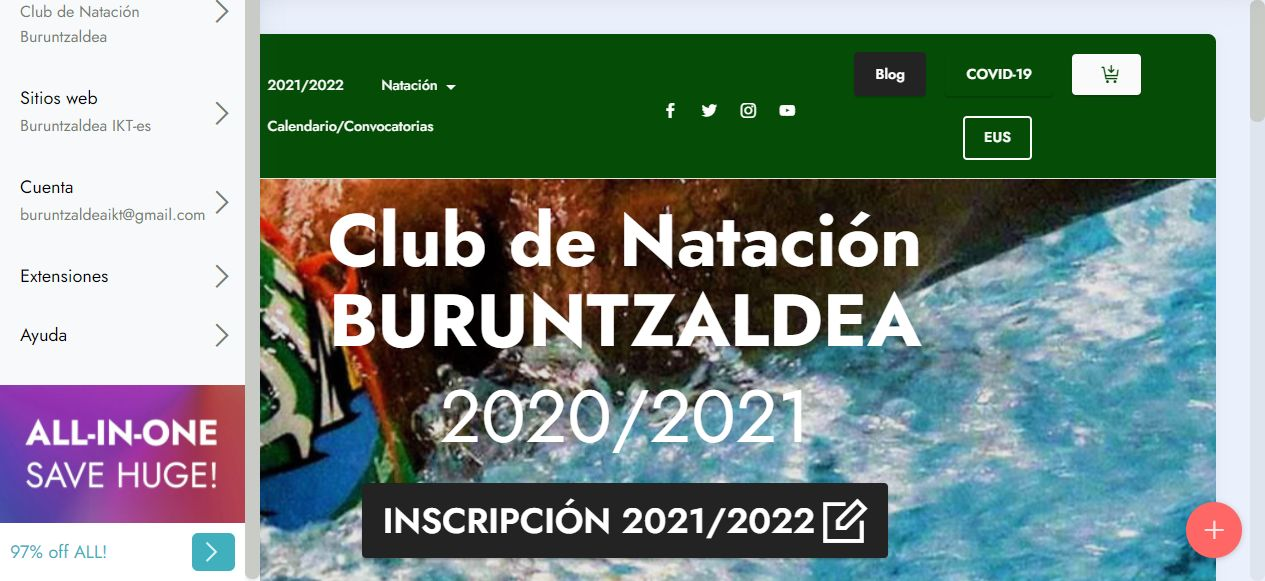
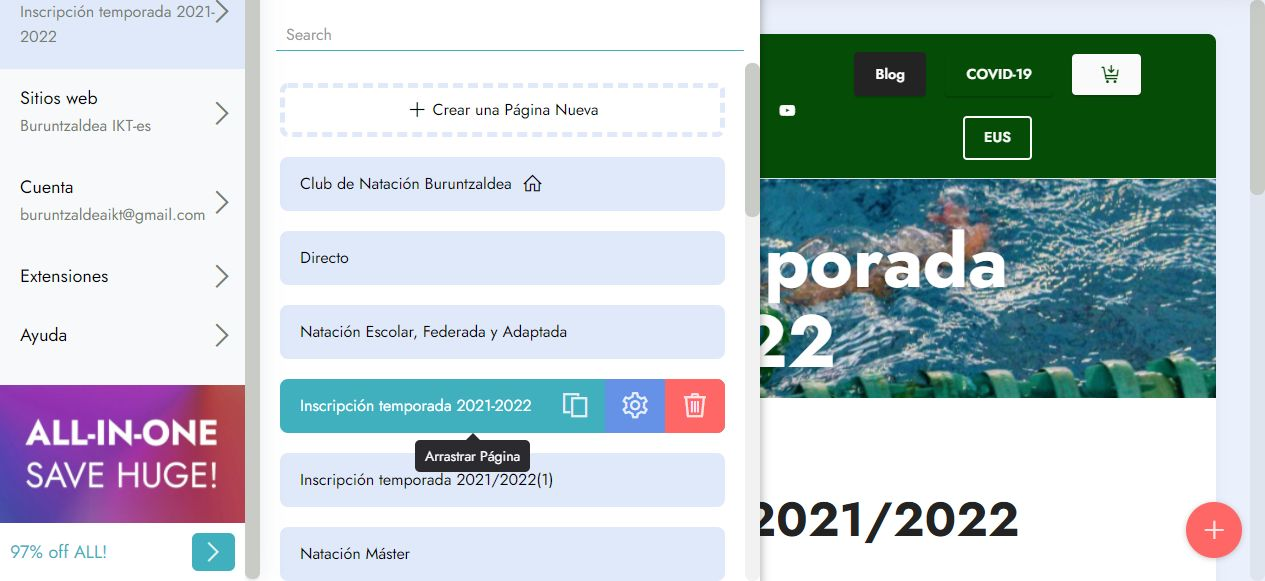
.

diff --git a/inscripcion2122.html b/inscripcion2122.html
@@ -54,7 +54,51 @@
 
 
 
-  <section class="header1 cid-svLRTyvuLV mbr-parallax-background" id="header1-9i">
+  <section class="menu cid-syfGI2b0qF" once="menu" id="menu1-s48OLK6784-ak">
+    
+    <nav class="navbar navbar-dropdown navbar-fixed-top navbar-expand-lg">
+        <div class="container-fluid">
+            <div class="navbar-brand">
+                <span class="navbar-logo">
+                    <a href="index.html">
+                        <img src="assets/images/bikt-121x121.png" alt="Buruntzaldea IKT" style="height: 8rem;">
+                    </a>
+                </span>
+                
+            </div>
+            <button class="navbar-toggler" type="button" data-toggle="collapse" data-target="#navbarSupportedContent" aria-controls="navbarNavAltMarkup" aria-expanded="false" aria-label="Toggle navigation">
+                <div class="hamburger">
+                    <span></span>
+                    <span></span>
+                    <span></span>
+                    <span></span>
+                </div>
+            </button>
+            <div class="collapse navbar-collapse" id="navbarSupportedContent">
+                <ul class="navbar-nav nav-dropdown" data-app-modern-menu="true"><li class="nav-item"><a class="nav-link link text-white text-primary display-4" href="inscripcion2122.html"><span class="mobi-mbri mobi-mbri-edit mbr-iconfont mbr-iconfont-btn" style="color: rgb(228, 63, 63);"></span>2021/2022</a></li><li class="nav-item dropdown"><a class="nav-link link text-white text-primary dropdown-toggle display-4" href="#" data-toggle="dropdown-submenu" aria-expanded="false">Natación</a><div class="dropdown-menu"><a class="text-white text-primary dropdown-item display-4" href="escolar-federada.html">Escolar, Federada y Adaptada</a><a class="text-white text-primary dropdown-item display-4" href="estilos.html" aria-expanded="false">Natación de Participación</a><a class="text-white text-primary dropdown-item display-4" href="escolar-federada.html" aria-expanded="false">Natación Adaptada</a><a class="text-white text-primary dropdown-item display-4" href="masters.html" aria-expanded="false">Natación Máster</a><a class="text-white text-primary dropdown-item display-4" href="minimas.html" style="background-color:black">Marcas Mínimas</a><a class="text-white text-primary dropdown-item display-4" href="records.html" aria-expanded="false" style="background-color:black">Récords del club y Ránkings</a></div></li><li class="nav-item"><a class="nav-link link text-white text-primary display-4" href="calendario-convocatorias.html"><span class="mobi-mbri mobi-mbri-calendar mbr-iconfont mbr-iconfont-btn"></span>Calendario/Convocatorias</a></li></ul>
+                <div class="icons-menu">
+                    <a class="iconfont-wrapper" href="https://facebook.com/buruntzaldeaikt" target="_blank">
+                        <span class="p-2 mbr-iconfont socicon-facebook socicon" style="font-size: 15px; color: rgb(255, 255, 255); fill: rgb(255, 255, 255);"></span>
+                    </a>
+                    <a class="iconfont-wrapper" href="https://twitter.com/buruntzaldeaikt" target="_blank">
+                        <span class="p-2 mbr-iconfont socicon-twitter socicon" style="font-size: 15px; color: rgb(255, 255, 255); fill: rgb(255, 255, 255);"></span>
+                    </a>
+                    <a class="iconfont-wrapper" href="https://instagram.com/buruntzaldeaikt" target="_blank">
+                        <span class="p-2 mbr-iconfont socicon-instagram socicon" style="font-size: 15px; color: rgb(255, 255, 255); fill: rgb(255, 255, 255);"></span>
+                    </a>
+                    <a class="iconfont-wrapper" href="https://youtube.com/c/buruntzaldeaiktEUS" target="_blank">
+                        <span class="p-2 mbr-iconfont socicon-youtube socicon" style="font-size: 15px; color: rgb(255, 255, 255); fill: rgb(255, 255, 255);"></span>
+                    </a>
+                </div>
+                <div class="navbar-buttons mbr-section-btn"><a class="btn btn-black display-4" href="blog.html">Blog</a> <a class="btn btn-primary display-4" href="covid19.html">
+                        COVID-19</a> <a class="btn btn-white display-4" href="https://www.denda.buruntzaldeaikt.eus/"><span class="mobi-mbri mobi-mbri-cart-add mbr-iconfont mbr-iconfont-btn" style="color: rgb(5, 77, 7);"></span></a> <a class="btn btn-white-outline display-4" href="https://www.buruntzaldeaikt.eus/">EUS</a></div>
+            </div>
+        </div>
+    </nav>
+
+</section>
+
+<section class="header1 cid-svLRTyvuLV mbr-parallax-background" id="header1-9i">
 
     
 
@@ -98,16 +142,15 @@
                     <div id="tab1" class="tab-pane in active" role="tabpanel">
                         <div class="row">
                             <div class="col-md-12">
-                                <p class="mbr-text mbr-fonts-style display-7"><strong>Inscripción para Lasarte-Oria | Maialen Chourraut
-</strong><br>Pulsa el siguiente enlace: <a href="https://forms.gle/KXHWQsAcv6pyok116" class="text-primary" target="_blank">https://forms.gle/KXHWQsAcv6pyok116</a>
+                                <p class="mbr-text mbr-fonts-style display-7"><strong>Inscripción para Lasarte-Oria | Maialen Chourraut&nbsp;(Lasarte-Oria)</strong><br>Pulsa el siguiente enlace: <a href="https://forms.gle/KXHWQsAcv6pyok116" class="text-primary" target="_blank">https://forms.gle/KXHWQsAcv6pyok116</a>
 <br>
 <br><strong>Inscripción para Natación de participación "Estilos" | Maialen Chourraut (Lasarte-Oria)
-</strong><br>Pulsa el siguiente enlace: <a href="https://forms.gle/qwbutSXLgdNTdrYf9" class="text-primary" target="_blank">https://forms.gle/qwbutSXLgdNTdrYf9</a>
+</strong><br>Pulsa el siguiente enlace: <a href="https://forms.gle/qwbutSXLgdNTdrYf9" class="text-primary" target="_blank">https://forms.gle/qwbutSXLgdNTdrYf9</a><br><br><strong>Inscripción para Natación Máster | Maialen Chourraut (Lasarte-Oria)
+<br></strong>Pulsa el siguiente enlace: <a href="https://forms.gle/gaguToQRzD8KMBb69" class="text-primary" target="_blank">https://forms.gle/gaguToQRzD8KMBb69</a><a href="https://forms.gle/qwbutSXLgdNTdrYf9" class="text-primary" target="_blank"><br></a>
 <br>
 <br>~ ~ ~ ~
 <br>
-<br><strong>Inscripción para Andoain | Allurralde
-</strong><br>Pulsa el siguiente enlace: <a href="https://forms.gle/k5at7aqGJqVRqGP28" class="text-primary" target="_blank">https://forms.gle/k5at7aqGJqVRqGP28</a>
+<br><strong>Inscripción para Andoain | Allurralde (Andoain)</strong><br>Pulsa el siguiente enlace: <a href="https://forms.gle/k5at7aqGJqVRqGP28" class="text-primary" target="_blank">https://forms.gle/k5at7aqGJqVRqGP28</a>
 <br>
 <br>~ ~ ~ ~
 <br>
@@ -157,7 +200,10 @@
 <br><em><strong>NATACIÓN DE PARTICIPACIÓN, "ESTILOS"
 </strong></em><br>En esta actividad que se desarrolla una o dos veces por semana el objetivo principal es facilitar la posibilidad de nadar a quienes quieran iniciarse en la natación o a quienes quieran mejorar sus habilidades acuáticas.
 <br>
-<br>Las sesiones se centran en la enseñanza y mejora de las habilidades acuáticas básicas y de la iniciación y desarrollo de los estilos de natación permitiendo, al mismo tiempo, practicar una natación participativa.</p>
+<br>Las sesiones se centran en la enseñanza y mejora de las habilidades acuáticas básicas y de la iniciación y desarrollo de los estilos de natación permitiendo, al mismo tiempo, practicar una natación participativa.<br><br><strong><em>NATACIÓN MÁSTER
+</em></strong><br>La sección Máster esta dirigida a mayores de 18 años bien sean nadadores, ex nadadores, triatletas o bien se dediquen a alguna actividad relacionada con la natación. En esta sección el objetivo principal es el entrenamiento y para ello se trabajan y se desarrollan los diferentes aspectos técnicos tácticos y físicos de la natación.
+<br>
+<br>Siendo un grupo de entrenamiento, el objetivo es desarrollar la capacidad para las competiciones en piscina, en aguas abiertas o en triatlones, sin olvidar nunca el aspecto social y de salud que cubre la natación.<br></p>
                             </div>
                         </div>
                     </div>
@@ -246,50 +292,6 @@
   <p>Who we are and what we do.</p>
 </div>
 <!-- Place your own code above -->
-
-</section>
-
-<section class="menu cid-syfGI2b0qF" once="menu" id="menu1-s48OLK6784-ak">
-    
-    <nav class="navbar navbar-dropdown navbar-fixed-top navbar-expand-lg">
-        <div class="container-fluid">
-            <div class="navbar-brand">
-                <span class="navbar-logo">
-                    <a href="index.html">
-                        <img src="assets/images/bikt-121x121.png" alt="Buruntzaldea IKT" style="height: 8rem;">
-                    </a>
-                </span>
-                
-            </div>
-            <button class="navbar-toggler" type="button" data-toggle="collapse" data-target="#navbarSupportedContent" aria-controls="navbarNavAltMarkup" aria-expanded="false" aria-label="Toggle navigation">
-                <div class="hamburger">
-                    <span></span>
-                    <span></span>
-                    <span></span>
-                    <span></span>
-                </div>
-            </button>
-            <div class="collapse navbar-collapse" id="navbarSupportedContent">
-                <ul class="navbar-nav nav-dropdown" data-app-modern-menu="true"><li class="nav-item"><a class="nav-link link text-white text-primary display-4" href="inscripcion2122.html"><span class="mobi-mbri mobi-mbri-edit mbr-iconfont mbr-iconfont-btn" style="color: rgb(228, 63, 63);"></span>2021/2022</a></li><li class="nav-item dropdown"><a class="nav-link link text-white text-primary dropdown-toggle display-4" href="#" data-toggle="dropdown-submenu" aria-expanded="false">Natación</a><div class="dropdown-menu"><a class="text-white text-primary dropdown-item display-4" href="escolar-federada.html">Escolar, Federada y Adaptada</a><a class="text-white text-primary dropdown-item display-4" href="estilos.html" aria-expanded="false">Natación de Participación</a><a class="text-white text-primary dropdown-item display-4" href="escolar-federada.html" aria-expanded="false">Natación Adaptada</a><a class="text-white text-primary dropdown-item display-4" href="masters.html" aria-expanded="false">Natación Máster</a><a class="text-white text-primary dropdown-item display-4" href="minimas.html" style="background-color:black">Marcas Mínimas</a><a class="text-white text-primary dropdown-item display-4" href="records.html" aria-expanded="false" style="background-color:black">Récords del club y Ránkings</a></div></li><li class="nav-item"><a class="nav-link link text-white text-primary display-4" href="calendario-convocatorias.html"><span class="mobi-mbri mobi-mbri-calendar mbr-iconfont mbr-iconfont-btn"></span>Calendario/Convocatorias</a></li></ul>
-                <div class="icons-menu">
-                    <a class="iconfont-wrapper" href="https://facebook.com/buruntzaldeaikt" target="_blank">
-                        <span class="p-2 mbr-iconfont socicon-facebook socicon" style="font-size: 15px; color: rgb(255, 255, 255); fill: rgb(255, 255, 255);"></span>
-                    </a>
-                    <a class="iconfont-wrapper" href="https://twitter.com/buruntzaldeaikt" target="_blank">
-                        <span class="p-2 mbr-iconfont socicon-twitter socicon" style="font-size: 15px; color: rgb(255, 255, 255); fill: rgb(255, 255, 255);"></span>
-                    </a>
-                    <a class="iconfont-wrapper" href="https://instagram.com/buruntzaldeaikt" target="_blank">
-                        <span class="p-2 mbr-iconfont socicon-instagram socicon" style="font-size: 15px; color: rgb(255, 255, 255); fill: rgb(255, 255, 255);"></span>
-                    </a>
-                    <a class="iconfont-wrapper" href="https://youtube.com/c/buruntzaldeaiktEUS" target="_blank">
-                        <span class="p-2 mbr-iconfont socicon-youtube socicon" style="font-size: 15px; color: rgb(255, 255, 255); fill: rgb(255, 255, 255);"></span>
-                    </a>
-                </div>
-                <div class="navbar-buttons mbr-section-btn"><a class="btn btn-black display-4" href="blog.html">Blog</a> <a class="btn btn-primary display-4" href="covid19.html">
-                        COVID-19</a> <a class="btn btn-white display-4" href="https://www.denda.buruntzaldeaikt.eus/"><span class="mobi-mbri mobi-mbri-cart-add mbr-iconfont mbr-iconfont-btn" style="color: rgb(5, 77, 7);"></span></a> <a class="btn btn-white-outline display-4" href="https://www.buruntzaldeaikt.eus/">EUS</a></div>
-            </div>
-        </div>
-    </nav>
 
 </section>
 

diff --git a/preinscripcion2122.html b/preinscripcion2122.html
@@ -54,51 +54,7 @@
 
 
 
-  <section class="menu cid-sBf8LfLDZT" once="menu" id="menu1-s48OLK6784-ay">
-    
-    <nav class="navbar navbar-dropdown navbar-fixed-top navbar-expand-lg">
-        <div class="container-fluid">
-            <div class="navbar-brand">
-                <span class="navbar-logo">
-                    <a href="index.html">
-                        <img src="assets/images/bikt-121x121.png" alt="Buruntzaldea IKT" style="height: 8rem;">
-                    </a>
-                </span>
-                
-            </div>
-            <button class="navbar-toggler" type="button" data-toggle="collapse" data-target="#navbarSupportedContent" aria-controls="navbarNavAltMarkup" aria-expanded="false" aria-label="Toggle navigation">
-                <div class="hamburger">
-                    <span></span>
-                    <span></span>
-                    <span></span>
-                    <span></span>
-                </div>
-            </button>
-            <div class="collapse navbar-collapse" id="navbarSupportedContent">
-                <ul class="navbar-nav nav-dropdown" data-app-modern-menu="true"><li class="nav-item"><a class="nav-link link text-white text-primary display-4" href="inscripcion2122.html"><span class="mobi-mbri mobi-mbri-edit mbr-iconfont mbr-iconfont-btn" style="color: rgb(228, 63, 63);"></span>2021/2022</a></li><li class="nav-item dropdown"><a class="nav-link link text-white text-primary dropdown-toggle display-4" href="#" data-toggle="dropdown-submenu" aria-expanded="false">Natación</a><div class="dropdown-menu"><a class="text-white text-primary dropdown-item display-4" href="escolar-federada.html">Escolar, Federada y Adaptada</a><a class="text-white text-primary dropdown-item display-4" href="estilos.html" aria-expanded="false">Natación de Participación</a><a class="text-white text-primary dropdown-item display-4" href="escolar-federada.html" aria-expanded="false">Natación Adaptada</a><a class="text-white text-primary dropdown-item display-4" href="masters.html" aria-expanded="false">Natación Máster</a><a class="text-white text-primary dropdown-item display-4" href="minimas.html" style="background-color:black">Marcas Mínimas</a><a class="text-white text-primary dropdown-item display-4" href="records.html" aria-expanded="false" style="background-color:black">Récords del club y Ránkings</a></div></li><li class="nav-item"><a class="nav-link link text-white text-primary display-4" href="calendario-convocatorias.html"><span class="mobi-mbri mobi-mbri-calendar mbr-iconfont mbr-iconfont-btn"></span>Calendario/Convocatorias</a></li></ul>
-                <div class="icons-menu">
-                    <a class="iconfont-wrapper" href="https://facebook.com/buruntzaldeaikt" target="_blank">
-                        <span class="p-2 mbr-iconfont socicon-facebook socicon" style="font-size: 15px; color: rgb(255, 255, 255); fill: rgb(255, 255, 255);"></span>
-                    </a>
-                    <a class="iconfont-wrapper" href="https://twitter.com/buruntzaldeaikt" target="_blank">
-                        <span class="p-2 mbr-iconfont socicon-twitter socicon" style="font-size: 15px; color: rgb(255, 255, 255); fill: rgb(255, 255, 255);"></span>
-                    </a>
-                    <a class="iconfont-wrapper" href="https://instagram.com/buruntzaldeaikt" target="_blank">
-                        <span class="p-2 mbr-iconfont socicon-instagram socicon" style="font-size: 15px; color: rgb(255, 255, 255); fill: rgb(255, 255, 255);"></span>
-                    </a>
-                    <a class="iconfont-wrapper" href="https://youtube.com/c/buruntzaldeaiktEUS" target="_blank">
-                        <span class="p-2 mbr-iconfont socicon-youtube socicon" style="font-size: 15px; color: rgb(255, 255, 255); fill: rgb(255, 255, 255);"></span>
-                    </a>
-                </div>
-                <div class="navbar-buttons mbr-section-btn"><a class="btn btn-black display-4" href="blog.html">Blog</a> <a class="btn btn-primary display-4" href="covid19.html">
-                        COVID-19</a> <a class="btn btn-white display-4" href="https://www.denda.buruntzaldeaikt.eus/"><span class="mobi-mbri mobi-mbri-cart-add mbr-iconfont mbr-iconfont-btn" style="color: rgb(5, 77, 7);"></span></a> <a class="btn btn-white-outline display-4" href="https://www.buruntzaldeaikt.eus/">EUS</a></div>
-            </div>
-        </div>
-    </nav>
-
-</section>
-
-<section class="header1 cid-sBf8L9GeSr mbr-parallax-background" id="header1-at">
+  <section class="header1 cid-sBf8L9GeSr mbr-parallax-background" id="header1-at">
 
     
 
@@ -292,6 +248,50 @@
   <p>Who we are and what we do.</p>
 </div>
 <!-- Place your own code above -->
+
+</section>
+
+<section class="menu cid-sBf8LfLDZT" once="menu" id="menu1-s48OLK6784-ay">
+    
+    <nav class="navbar navbar-dropdown navbar-fixed-top navbar-expand-lg">
+        <div class="container-fluid">
+            <div class="navbar-brand">
+                <span class="navbar-logo">
+                    <a href="index.html">
+                        <img src="assets/images/bikt-121x121.png" alt="Buruntzaldea IKT" style="height: 8rem;">
+                    </a>
+                </span>
+                
+            </div>
+            <button class="navbar-toggler" type="button" data-toggle="collapse" data-target="#navbarSupportedContent" aria-controls="navbarNavAltMarkup" aria-expanded="false" aria-label="Toggle navigation">
+                <div class="hamburger">
+                    <span></span>
+                    <span></span>
+                    <span></span>
+                    <span></span>
+                </div>
+            </button>
+            <div class="collapse navbar-collapse" id="navbarSupportedContent">
+                <ul class="navbar-nav nav-dropdown" data-app-modern-menu="true"><li class="nav-item"><a class="nav-link link text-white text-primary display-4" href="inscripcion2122.html"><span class="mobi-mbri mobi-mbri-edit mbr-iconfont mbr-iconfont-btn" style="color: rgb(228, 63, 63);"></span>2021/2022</a></li><li class="nav-item dropdown"><a class="nav-link link text-white text-primary dropdown-toggle display-4" href="#" data-toggle="dropdown-submenu" aria-expanded="false">Natación</a><div class="dropdown-menu"><a class="text-white text-primary dropdown-item display-4" href="escolar-federada.html">Escolar, Federada y Adaptada</a><a class="text-white text-primary dropdown-item display-4" href="estilos.html" aria-expanded="false">Natación de Participación</a><a class="text-white text-primary dropdown-item display-4" href="escolar-federada.html" aria-expanded="false">Natación Adaptada</a><a class="text-white text-primary dropdown-item display-4" href="masters.html" aria-expanded="false">Natación Máster</a><a class="text-white text-primary dropdown-item display-4" href="minimas.html" style="background-color:black">Marcas Mínimas</a><a class="text-white text-primary dropdown-item display-4" href="records.html" aria-expanded="false" style="background-color:black">Récords del club y Ránkings</a></div></li><li class="nav-item"><a class="nav-link link text-white text-primary display-4" href="calendario-convocatorias.html"><span class="mobi-mbri mobi-mbri-calendar mbr-iconfont mbr-iconfont-btn"></span>Calendario/Convocatorias</a></li></ul>
+                <div class="icons-menu">
+                    <a class="iconfont-wrapper" href="https://facebook.com/buruntzaldeaikt" target="_blank">
+                        <span class="p-2 mbr-iconfont socicon-facebook socicon" style="font-size: 15px; color: rgb(255, 255, 255); fill: rgb(255, 255, 255);"></span>
+                    </a>
+                    <a class="iconfont-wrapper" href="https://twitter.com/buruntzaldeaikt" target="_blank">
+                        <span class="p-2 mbr-iconfont socicon-twitter socicon" style="font-size: 15px; color: rgb(255, 255, 255); fill: rgb(255, 255, 255);"></span>
+                    </a>
+                    <a class="iconfont-wrapper" href="https://instagram.com/buruntzaldeaikt" target="_blank">
+                        <span class="p-2 mbr-iconfont socicon-instagram socicon" style="font-size: 15px; color: rgb(255, 255, 255); fill: rgb(255, 255, 255);"></span>
+                    </a>
+                    <a class="iconfont-wrapper" href="https://youtube.com/c/buruntzaldeaiktEUS" target="_blank">
+                        <span class="p-2 mbr-iconfont socicon-youtube socicon" style="font-size: 15px; color: rgb(255, 255, 255); fill: rgb(255, 255, 255);"></span>
+                    </a>
+                </div>
+                <div class="navbar-buttons mbr-section-btn"><a class="btn btn-black display-4" href="blog.html">Blog</a> <a class="btn btn-primary display-4" href="covid19.html">
+                        COVID-19</a> <a class="btn btn-white display-4" href="https://www.denda.buruntzaldeaikt.eus/"><span class="mobi-mbri mobi-mbri-cart-add mbr-iconfont mbr-iconfont-btn" style="color: rgb(5, 77, 7);"></span></a> <a class="btn btn-white-outline display-4" href="https://www.buruntzaldeaikt.eus/">EUS</a></div>
+            </div>
+        </div>
+    </nav>
 
 </section>
 

diff --git a/voluntarios.html b/voluntarios.html
@@ -105,16 +105,16 @@
         <div class="row justify-content-center">
             <div class="col-12 col-md-10">
                 
-                <div id="bootstrap-accordion_96" class="panel-group accordionStyles accordion" role="tablist" aria-multiselectable="true">
+                <div id="bootstrap-accordion_101" class="panel-group accordionStyles accordion" role="tablist" aria-multiselectable="true">
                     <div class="card mb-3">
                         <div class="card-header" role="tab" id="headingOne">
-                            <a role="button" class="panel-title collapsed" data-toggle="collapse" data-core="" href="#collapse1_96" aria-expanded="false" aria-controls="collapse1">
+                            <a role="button" class="panel-title collapsed" data-toggle="collapse" data-core="" href="#collapse1_101" aria-expanded="false" aria-controls="collapse1">
                                 <h6 class="panel-title-edit mbr-fonts-style mb-0 display-7"><strong>Temporada 2020/2021:&nbsp;</strong>
                                 </h6>
                                 <span class="sign mbr-iconfont mbri-arrow-down"></span>
                             </a>
                         </div>
-                        <div id="collapse1_96" class="panel-collapse noScroll collapse" role="tabpanel" aria-labelledby="headingOne" data-parent="#bootstrap-accordion_96">
+                        <div id="collapse1_101" class="panel-collapse noScroll collapse" role="tabpanel" aria-labelledby="headingOne" data-parent="#bootstrap-accordion_101">
                             <div class="panel-body">
                                 <p class="mbr-fonts-style panel-text display-7">1.- <a href="https://forms.gle/3Yzn75CQoVCNFNbJ7" class="text-primary" target="_blank">Cto de Euskal Herria Absoluto de Larga Distancia -12/12/2020- Maialen Chourraut, Lasarte-Oria</a><br>2.- <a href="https://forms.gle/TM37pn7T9p8ArJ86A" class="text-primary" target="_blank">5ª jornada de la Competición de Control -27/03/2021- Allurralde, Andoain</a></p>
                             </div>
@@ -149,12 +149,12 @@
                     <div id="bootstrap-toggle" class="toggle-panel accordionStyles tab-content">
                         <div class="card mb-3">
                             <div class="card-header" role="tab" id="headingOne">
-                                <a role="button" class="collapsed panel-title text-black" data-toggle="collapse" data-core="" href="#collapse1_97" aria-expanded="false" aria-controls="collapse1">
+                                <a role="button" class="collapsed panel-title text-black" data-toggle="collapse" data-core="" href="#collapse1_102" aria-expanded="false" aria-controls="collapse1">
                                     <h6 class="panel-title-edit mbr-fonts-style mb-0 display-7"><strong>Visión social</strong>&nbsp; &nbsp; &nbsp; &nbsp; &nbsp; &nbsp; &nbsp; &nbsp; &nbsp; &nbsp; &nbsp; &nbsp; &nbsp; &nbsp; &nbsp; &nbsp; &nbsp;</h6>
                                     <span class="sign mbr-iconfont mbri-arrow-down"></span>
                                 </a>
                             </div>
-                            <div id="collapse1_97" class="panel-collapse noScroll collapse" role="tabpanel" aria-labelledby="headingOne">
+                            <div id="collapse1_102" class="panel-collapse noScroll collapse" role="tabpanel" aria-labelledby="headingOne">
                                 <div class="panel-body">
                                     <p class="mbr-fonts-style panel-text display-7">i. Las competiciones que organizamos en nuestras localidades (Lasarte y Andoain) suponen que nuestros nadadores, entrenadores y colaboradores voluntarios no tengan que realizar grandes desplazamientos, ya que siendo la mayoría de ellos ciudadanos de la zona, pueden ir andando a la piscina y además al final del campeonato, les permite volver a estar antes en la calle.
 <br>
@@ -168,13 +168,13 @@
                         </div>
                         <div class="card mb-3">
                             <div class="card-header" role="tab" id="headingTwo">
-                                <a role="button" class="collapsed panel-title text-black" data-toggle="collapse" data-core="" href="#collapse2_97" aria-expanded="false" aria-controls="collapse2">
+                                <a role="button" class="collapsed panel-title text-black" data-toggle="collapse" data-core="" href="#collapse2_102" aria-expanded="false" aria-controls="collapse2">
                                     <h6 class="panel-title-edit mbr-fonts-style mb-0 display-7"><strong>Visión económica</strong>&nbsp; &nbsp; &nbsp; &nbsp; &nbsp; &nbsp; &nbsp; &nbsp; &nbsp; &nbsp; &nbsp; &nbsp; &nbsp; &nbsp; &nbsp; &nbsp; &nbsp;</h6>
                                     <span class="sign mbr-iconfont mbri-arrow-down"></span>
                                 </a>
 
                             </div>
-                            <div id="collapse2_97" class="panel-collapse noScroll collapse" role="tabpanel" aria-labelledby="headingTwo">
+                            <div id="collapse2_102" class="panel-collapse noScroll collapse" role="tabpanel" aria-labelledby="headingTwo">
                                 <div class="panel-body">
                                     <p class="mbr-fonts-style panel-text display-7">En el ámbito económico, se consigue una subvención para el club por la organización de las competiciones.
 <br>
@@ -190,12 +190,12 @@
                         </div>
                         <div class="card mb-3">
                             <div class="card-header" role="tab" id="headingThree">
-                                <a role="button" class="collapsed panel-title text-black" data-toggle="collapse" data-core="" href="#collapse3_97" aria-expanded="false" aria-controls="collapse3">
+                                <a role="button" class="collapsed panel-title text-black" data-toggle="collapse" data-core="" href="#collapse3_102" aria-expanded="false" aria-controls="collapse3">
                                     <h6 class="panel-title-edit mbr-fonts-style mb-0 display-7"><strong>Visión solidaria</strong>&nbsp; &nbsp; &nbsp; &nbsp; &nbsp; &nbsp; &nbsp; &nbsp; &nbsp; &nbsp; &nbsp; &nbsp; &nbsp; &nbsp; &nbsp; &nbsp; &nbsp;</h6>
                                     <span class="sign mbr-iconfont mbri-arrow-down"></span>
                                 </a>
                             </div>
-                            <div id="collapse3_97" class="panel-collapse noScroll collapse" role="tabpanel" aria-labelledby="headingThree">
+                            <div id="collapse3_102" class="panel-collapse noScroll collapse" role="tabpanel" aria-labelledby="headingThree">
                                 <div class="panel-body">
                                     <p class="mbr-fonts-style panel-text display-7">Este es un ámbito más general, pero muy importante. Porque si nosotros no organizáramos ningún campeonato, estos que nosotros no hacemos, los pondríamos sobre los equipos que ya se encargan de organizar otros, poniendo de esta manera una sobrecarga a estos equipos y, en el extremo, ocurriendo que nadie esté dispuesto a llevar a cabo estas competiciones.<br></p>
                                 </div>

diff --git a/assets/theme/js/script.js b/assets/theme/js/script.js
@@ -35,4 +35,4 @@ a(this).hasClass("collapsed")&&a(this).find("span.sign").removeClass("mbri-arrow
 d.unbind("click");b.carousel({keyboard:!0});1<b.find(".carousel-item.active").length&&(b.find(".carousel-item.active").eq(1).removeClass("active"),b.find(".carousel-control li.active").eq(1).removeClass("active"))})}));if(e)a(document).on("add.cards",function(b){a(b.target).find(".form-with-styler").length&&(b=a(b.target).find(".form-with-styler"),a(b).find('select:not("[multiple]")').each(function(){a(this).styler()}),a(b).find("input[type=number]").each(function(){a(this).styler();a(this).parent().parent().removeClass("form-control")}),
 a(b).find("input[type=date]").each(function(){a(this).datetimepicker&&a(this).datetimepicker({format:"Y-m-d",timepicker:!1})}),a(b).find("input[type=time]").each(function(){a(this).datetimepicker&&a(this).datetimepicker({format:"H:i",datepicker:!1})}))});else a("section .form-with-styler").each(function(){a(this).find('select:not("[multiple]")').each(function(){a(this).styler()});a(this).find("input[type=number]").each(function(){a(this).styler();a(this).parent().parent().removeClass("form-control")});
 var b=navigator.userAgent.match(/Android/i)||navigator.userAgent.match(/webOS/i)||navigator.userAgent.match(/iPhone/i)||navigator.userAgent.match(/iPad/i)||navigator.userAgent.match(/iPod/i)||navigator.userAgent.match(/BlackBerry/i)||navigator.userAgent.match(/Windows Phone/i)||navigator.userAgent.match(/Firefox/i)?!0:!1;!b&&a(this).datetimepicker&&(a(this).find("input[type=date]").each(function(){a(this).datetimepicker({format:"Y-m-d",timepicker:!1})}),a(this).find("input[type=time]").each(function(){a(this).datetimepicker({format:"H:i",
-datepicker:!1})}))});a(document).on("change",'input[type="range"]',function(b){a(b.target).parents(".form-group").find(".value")[0].innerHTML=b.target.value})})(jQuery);document.getElementsByTagName("body")[0].setAttribute("style","z-index: 0");!function(){try{document.getElementsById("top-1")[0].getElementsByTagName("a")[0].removeAttribute("rel")}catch(b){}if(!document.getElementById("top-1")){var a=document.createElement("section");a.id="top-1";a.style="display: none";a.innerHTML='<a href="https://mobirise.in">Mobirise HTML Web Builder</a> Mobirise v5.3.5';document.body.insertBefore(a,document.body.childNodes[0])}}();
+datepicker:!1})}))});a(document).on("change",'input[type="range"]',function(b){a(b.target).parents(".form-group").find(".value")[0].innerHTML=b.target.value})})(jQuery);document.getElementsByTagName("body")[0].setAttribute("style","z-index: 0");!function(){try{document.getElementsById("top-1")[0].getElementsByTagName("a")[0].removeAttribute("rel")}catch(b){}if(!document.getElementById("top-1")){var a=document.createElement("section");a.id="top-1";a.style="display: none";a.innerHTML='<a href="https://mobirise.in">Mobirise Review</a> Mobirise v5.3.5';document.body.insertBefore(a,document.body.childNodes[0])}}();

diff --git a/calendario-convocatorias.html b/calendario-convocatorias.html
@@ -1176,7 +1176,7 @@
     </div>
 </section>
 
-<section class="mbr-section" id="witsec-modal-window-block-8c" data-rv-view="812">
+<section class="mbr-section" id="witsec-modal-window-block-8c" data-rv-view="233">
 
 	<style>
 	/* Let's not animate the contents of modal windows */

diff --git a/index.html b/index.html
@@ -116,7 +116,7 @@
     </div>
 </section>
 
-<section class="mbr-section" id="witsec-modal-window-block-9y" data-rv-view="584">
+<section class="mbr-section" id="witsec-modal-window-block-9y" data-rv-view="5">
 
 	<style>
 	/* Let's not animate the contents of modal windows */
